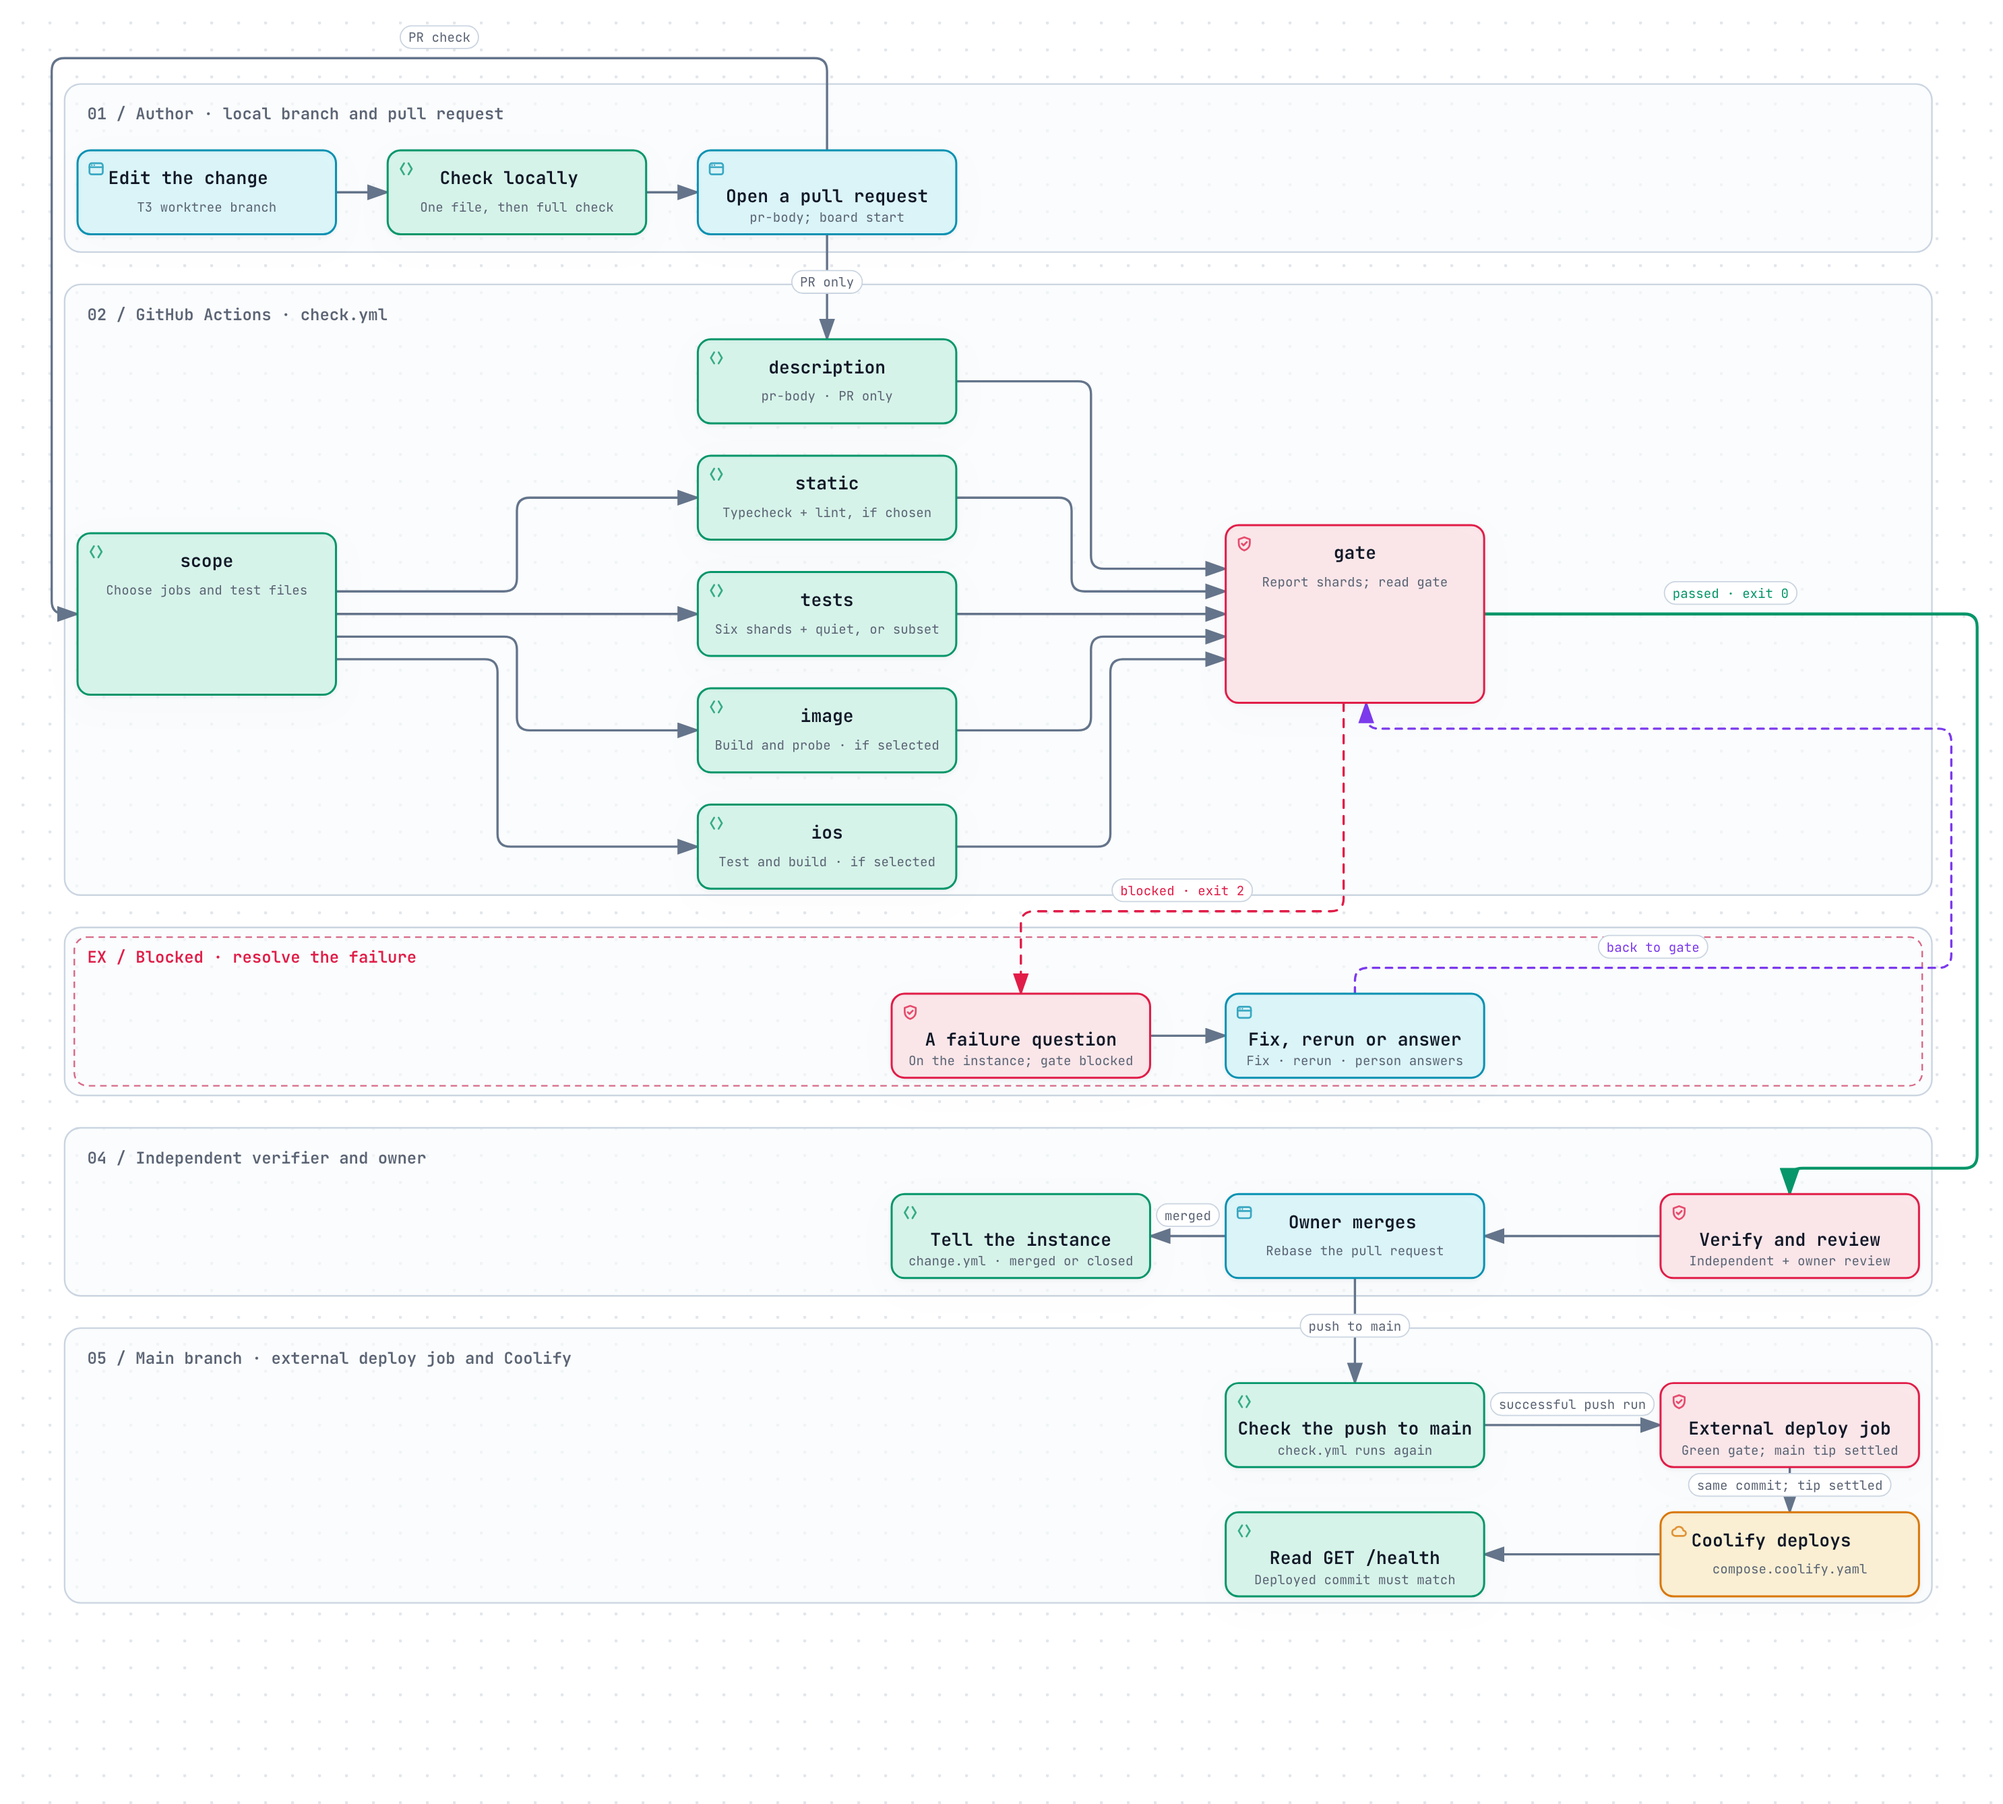
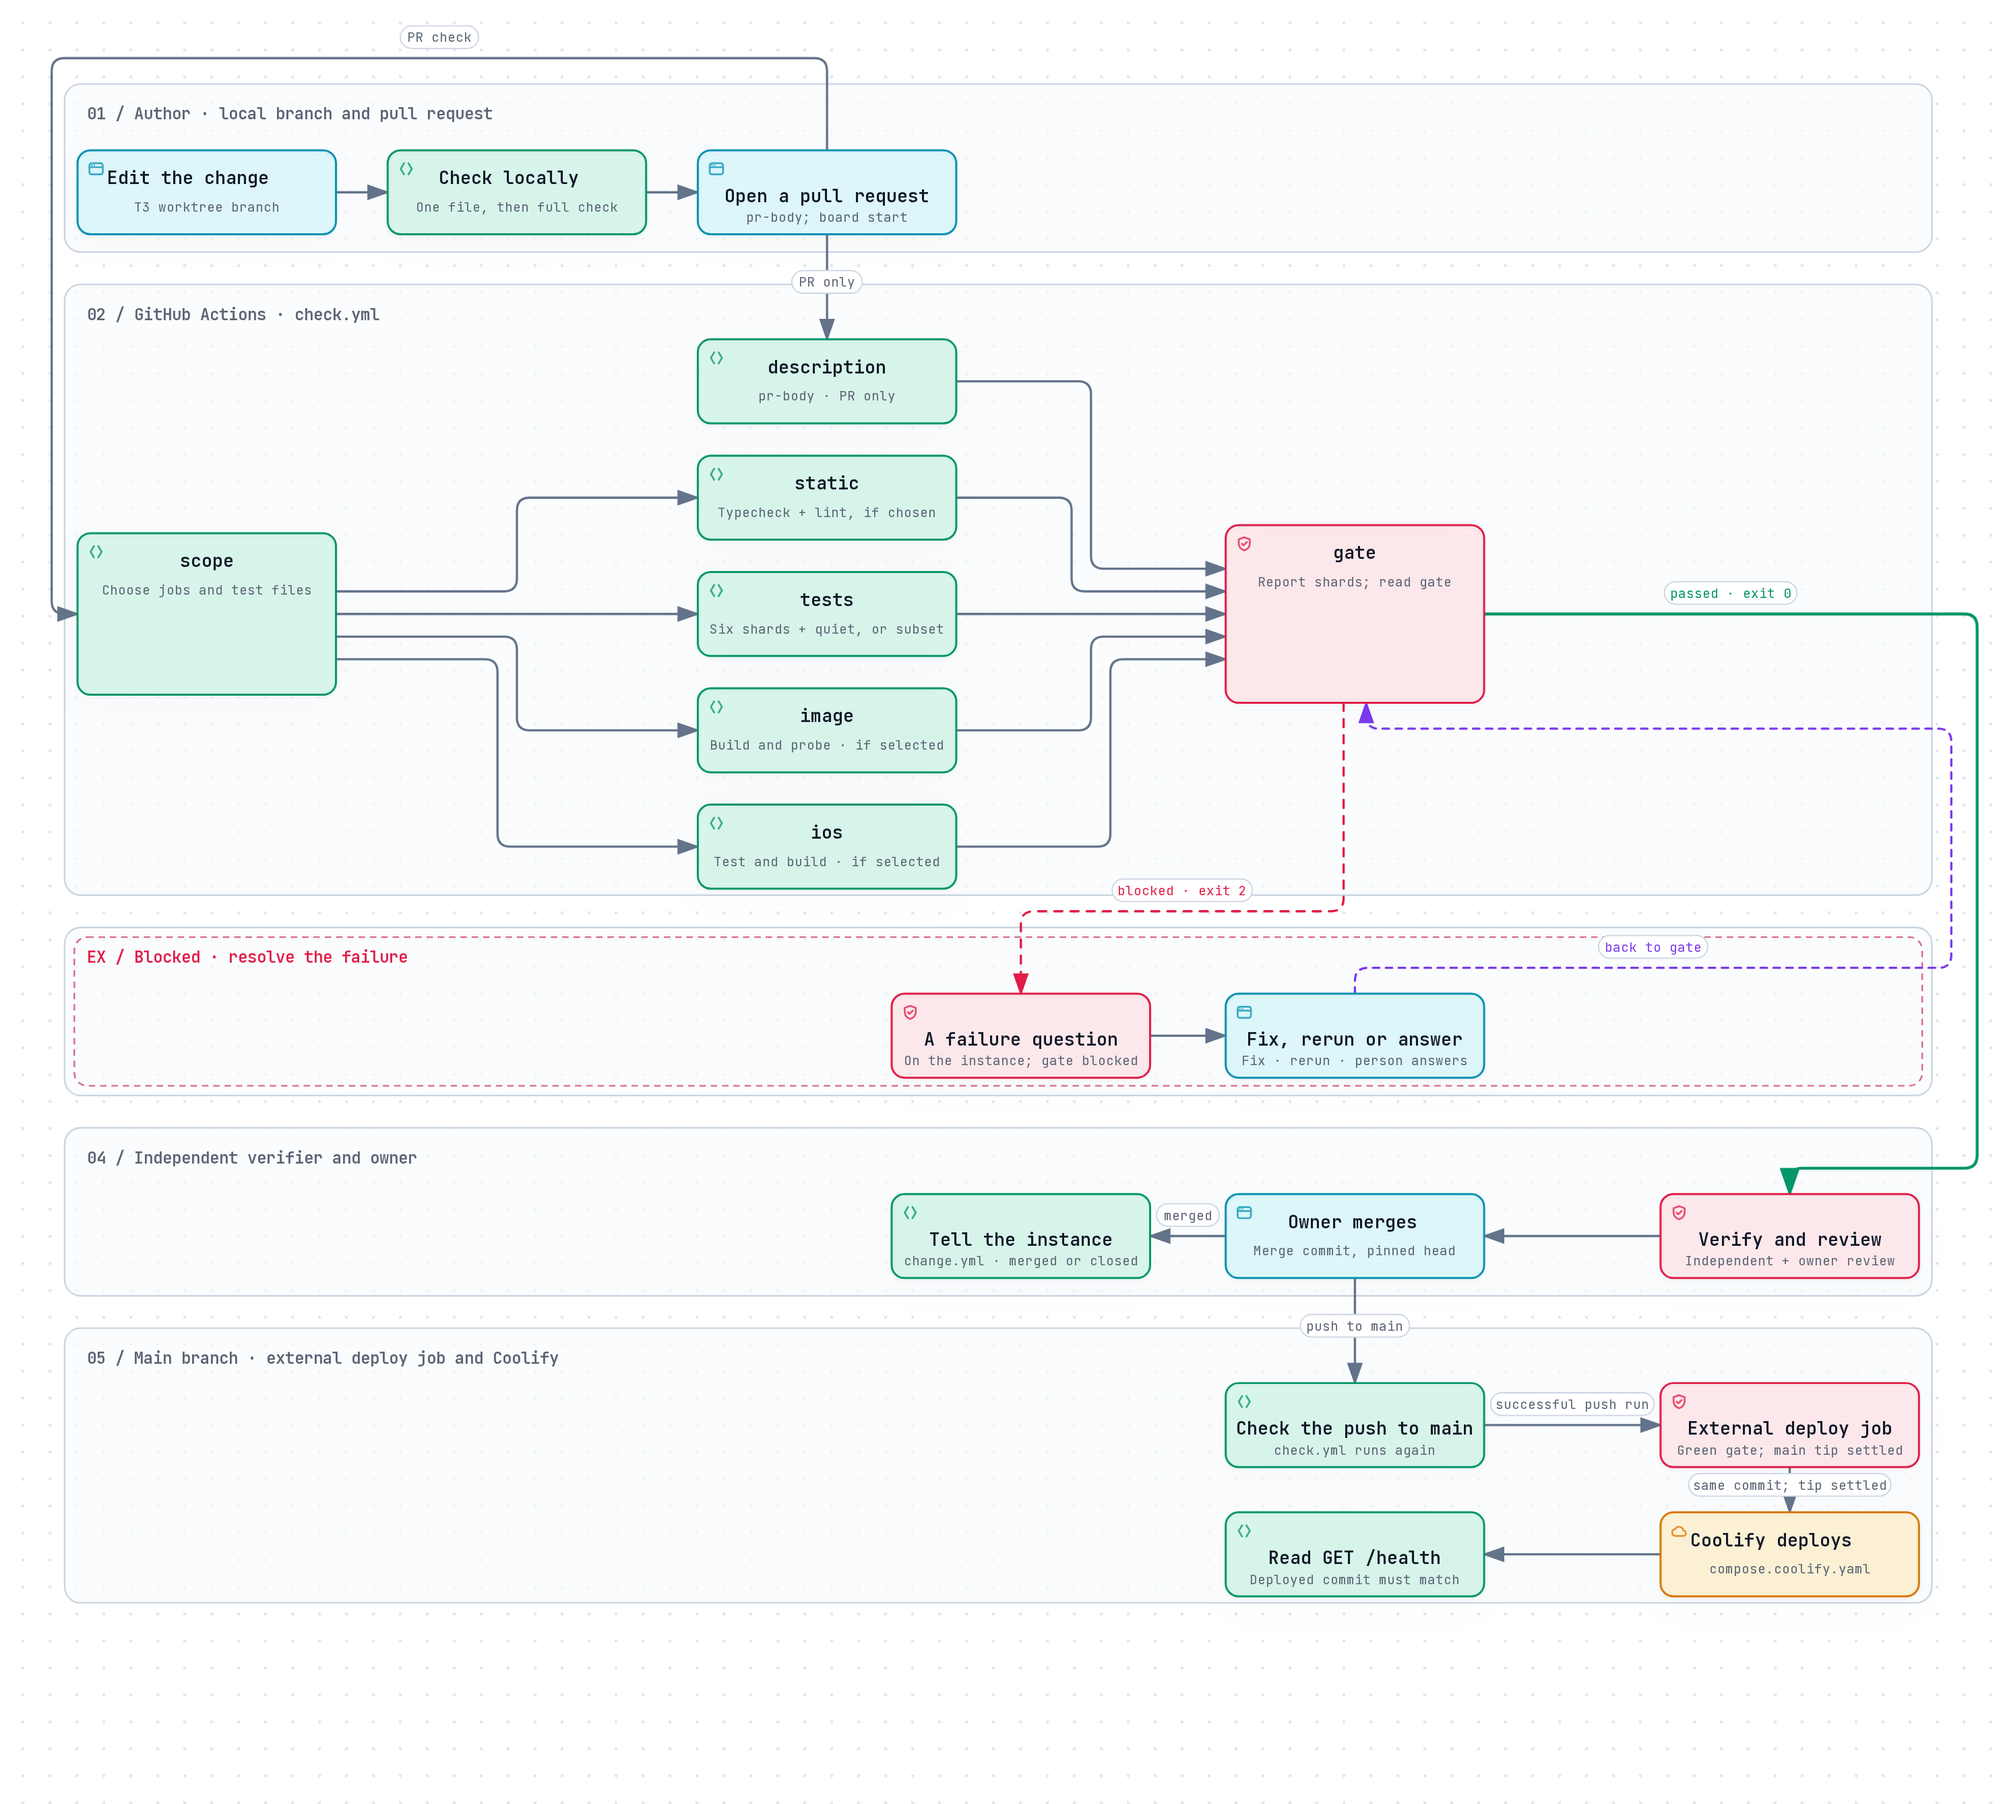
docs: show pinned merge commits in delivery diagram

diff --git a/docs/development/diagrams/change-to-deploy.html b/docs/development/diagrams/change-to-deploy.html
@@ -5451,8 +5451,8 @@ OTHER DEALINGS IN THE FONT SOFTWARE.
           <text data-detail="context" x="632" y="783.3" class="t-muted" font-size="8" text-anchor="middle">change.yml · merged or closed</text>
         </g>
 
-        <g id="node-merge" data-node-id="merge" data-node-label="Owner merges" tabindex="0" role="button" aria-label="Focus Owner merges, Rebase the pull request, Independent verifier and owner" aria-pressed="false" data-node-kind="frontend" data-node-sublabel="Rebase the pull request" data-node-context="Independent verifier and owner">
-          <title>Owner merges · Rebase the pull request · Independent verifier and owner</title>
+        <g id="node-merge" data-node-id="merge" data-node-label="Owner merges" tabindex="0" role="button" aria-label="Focus Owner merges, Merge commit, pinned head, Independent verifier and owner" aria-pressed="false" data-node-kind="frontend" data-node-sublabel="Merge commit, pinned head" data-node-context="Independent verifier and owner">
+          <title>Owner merges · Merge commit, pinned head · Independent verifier and owner</title>
           <rect x="758.8" y="739" width="160" height="52" rx="8" class="c-mask"/>
           <rect x="758.8" y="739" width="160" height="52" rx="8" class="c-frontend" data-animate="node" style="--step:12" stroke-width="1.5"/>
           <g aria-hidden="true" data-semantic-sigil="frontend" class="semantic-sigil s-frontend" transform="translate(764.8 745) scale(0.6875)">
@@ -5462,7 +5462,7 @@ OTHER DEALINGS IN THE FONT SOFTWARE.
             <circle cx="6.3" cy="4.8" r=".7" class="sigil-fill"/>
           </g>
           <text data-node-label="" data-detail-anchor="" x="837.1999999999999" y="760" class="t-primary" font-size="11" font-weight="600" text-anchor="middle">Owner merges</text>
-          <text data-detail="context" x="838.8" y="777" class="t-muted" font-size="8" text-anchor="middle">Rebase the pull request</text>
+          <text data-detail="context" x="838.8" y="777" class="t-muted" font-size="8" text-anchor="middle">Merge commit, pinned head</text>
         </g>
 
         <g id="node-verify" data-node-id="verify" data-node-label="Verify and review" tabindex="0" role="button" aria-label="Focus Verify and review, Independent + owner review, Independent verifier and owner" aria-pressed="false" data-node-kind="security" data-node-sublabel="Independent + owner review" data-node-context="Independent verifier and owner">
